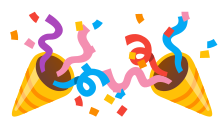
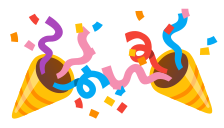
Stagger party poppers vertically within each cluster
Move the pair members to slightly different heights and give the trio a subtle rise-and-fall. Preserve the 86% scale, canvas widths, horizontal positions, boundary kerning and all five streamer palettes/permutations.

Rebuild the SVG, PNG and COLRv1 artwork pack. Validate 47 tests and 812 subtests, native-cache recovery in both formats, and packaged-font/browser checks in COLRv1 and CBDT.

Changed region(s): [[0.0312, 0.0625, 0.9688, 0.9375], [0.5938, 0.0625, 0.6562, 0.1875]]

diff --git a/ligatures/supplemental/build_clusters.py b/ligatures/supplemental/build_clusters.py
@@ -255,11 +255,11 @@ def compose(family, count):
                      'translate(-3 15) scale(.88) rotate(-6 64 64)',
                      'translate(83 13) scale(.90) rotate(5 64 64)'))
     elif family == 'popper':
-        placements = (('translate(108 10) scale(.86)',
-                       'translate(6 10) scale(.86)') if count==2 else
-                      ('translate(106 10) scale(.86)',
-                       'translate(6 10) scale(.86)',
-                       'translate(217 10) scale(.86)'))
+        placements = (('translate(108 7) scale(.86)',
+                       'translate(6 12) scale(.86)') if count==2 else
+                      ('translate(106 5) scale(.86)',
+                       'translate(6 12) scale(.86)',
+                       'translate(217 9) scale(.86)'))
     else:
         # Overlap at the bases, with a taller flame behind two lower flames.
         placements = (('translate(49 -2) scale(.99)', 'translate(-6 21) scale(.83)') if count==2 else

diff --git a/ligatures/supplemental/CLUSTERS.md b/ligatures/supplemental/CLUSTERS.md
@@ -8,7 +8,8 @@ with different heights and ray layouts. Poppers vary paper colours/positions and
 reverse the middle cone; each of the five poppers has a distinct permutation
 of three streamer shapes across the same outward-facing slots. Cones use a consistent 86% scale on 224px pair and 330px trio canvases. This
 modest reduction leaves room for their bodies and streamer clouds without the
-large gaps of the full-size layout. Cluster-boundary kerning is only 2%
+large gaps of the full-size layout. A slight vertical stagger keeps the pair
+and trio from sharing a rigid baseline. Cluster-boundary kerning is only 2%
 of an em. Cone stripes and shading are unchanged. The middle flame also curls the opposite way. The native singleton is
 unchanged. These families share binary history with every other cluster family, using
 alternating startup and the period-31 binary LFSR to mix pairs and trios,
